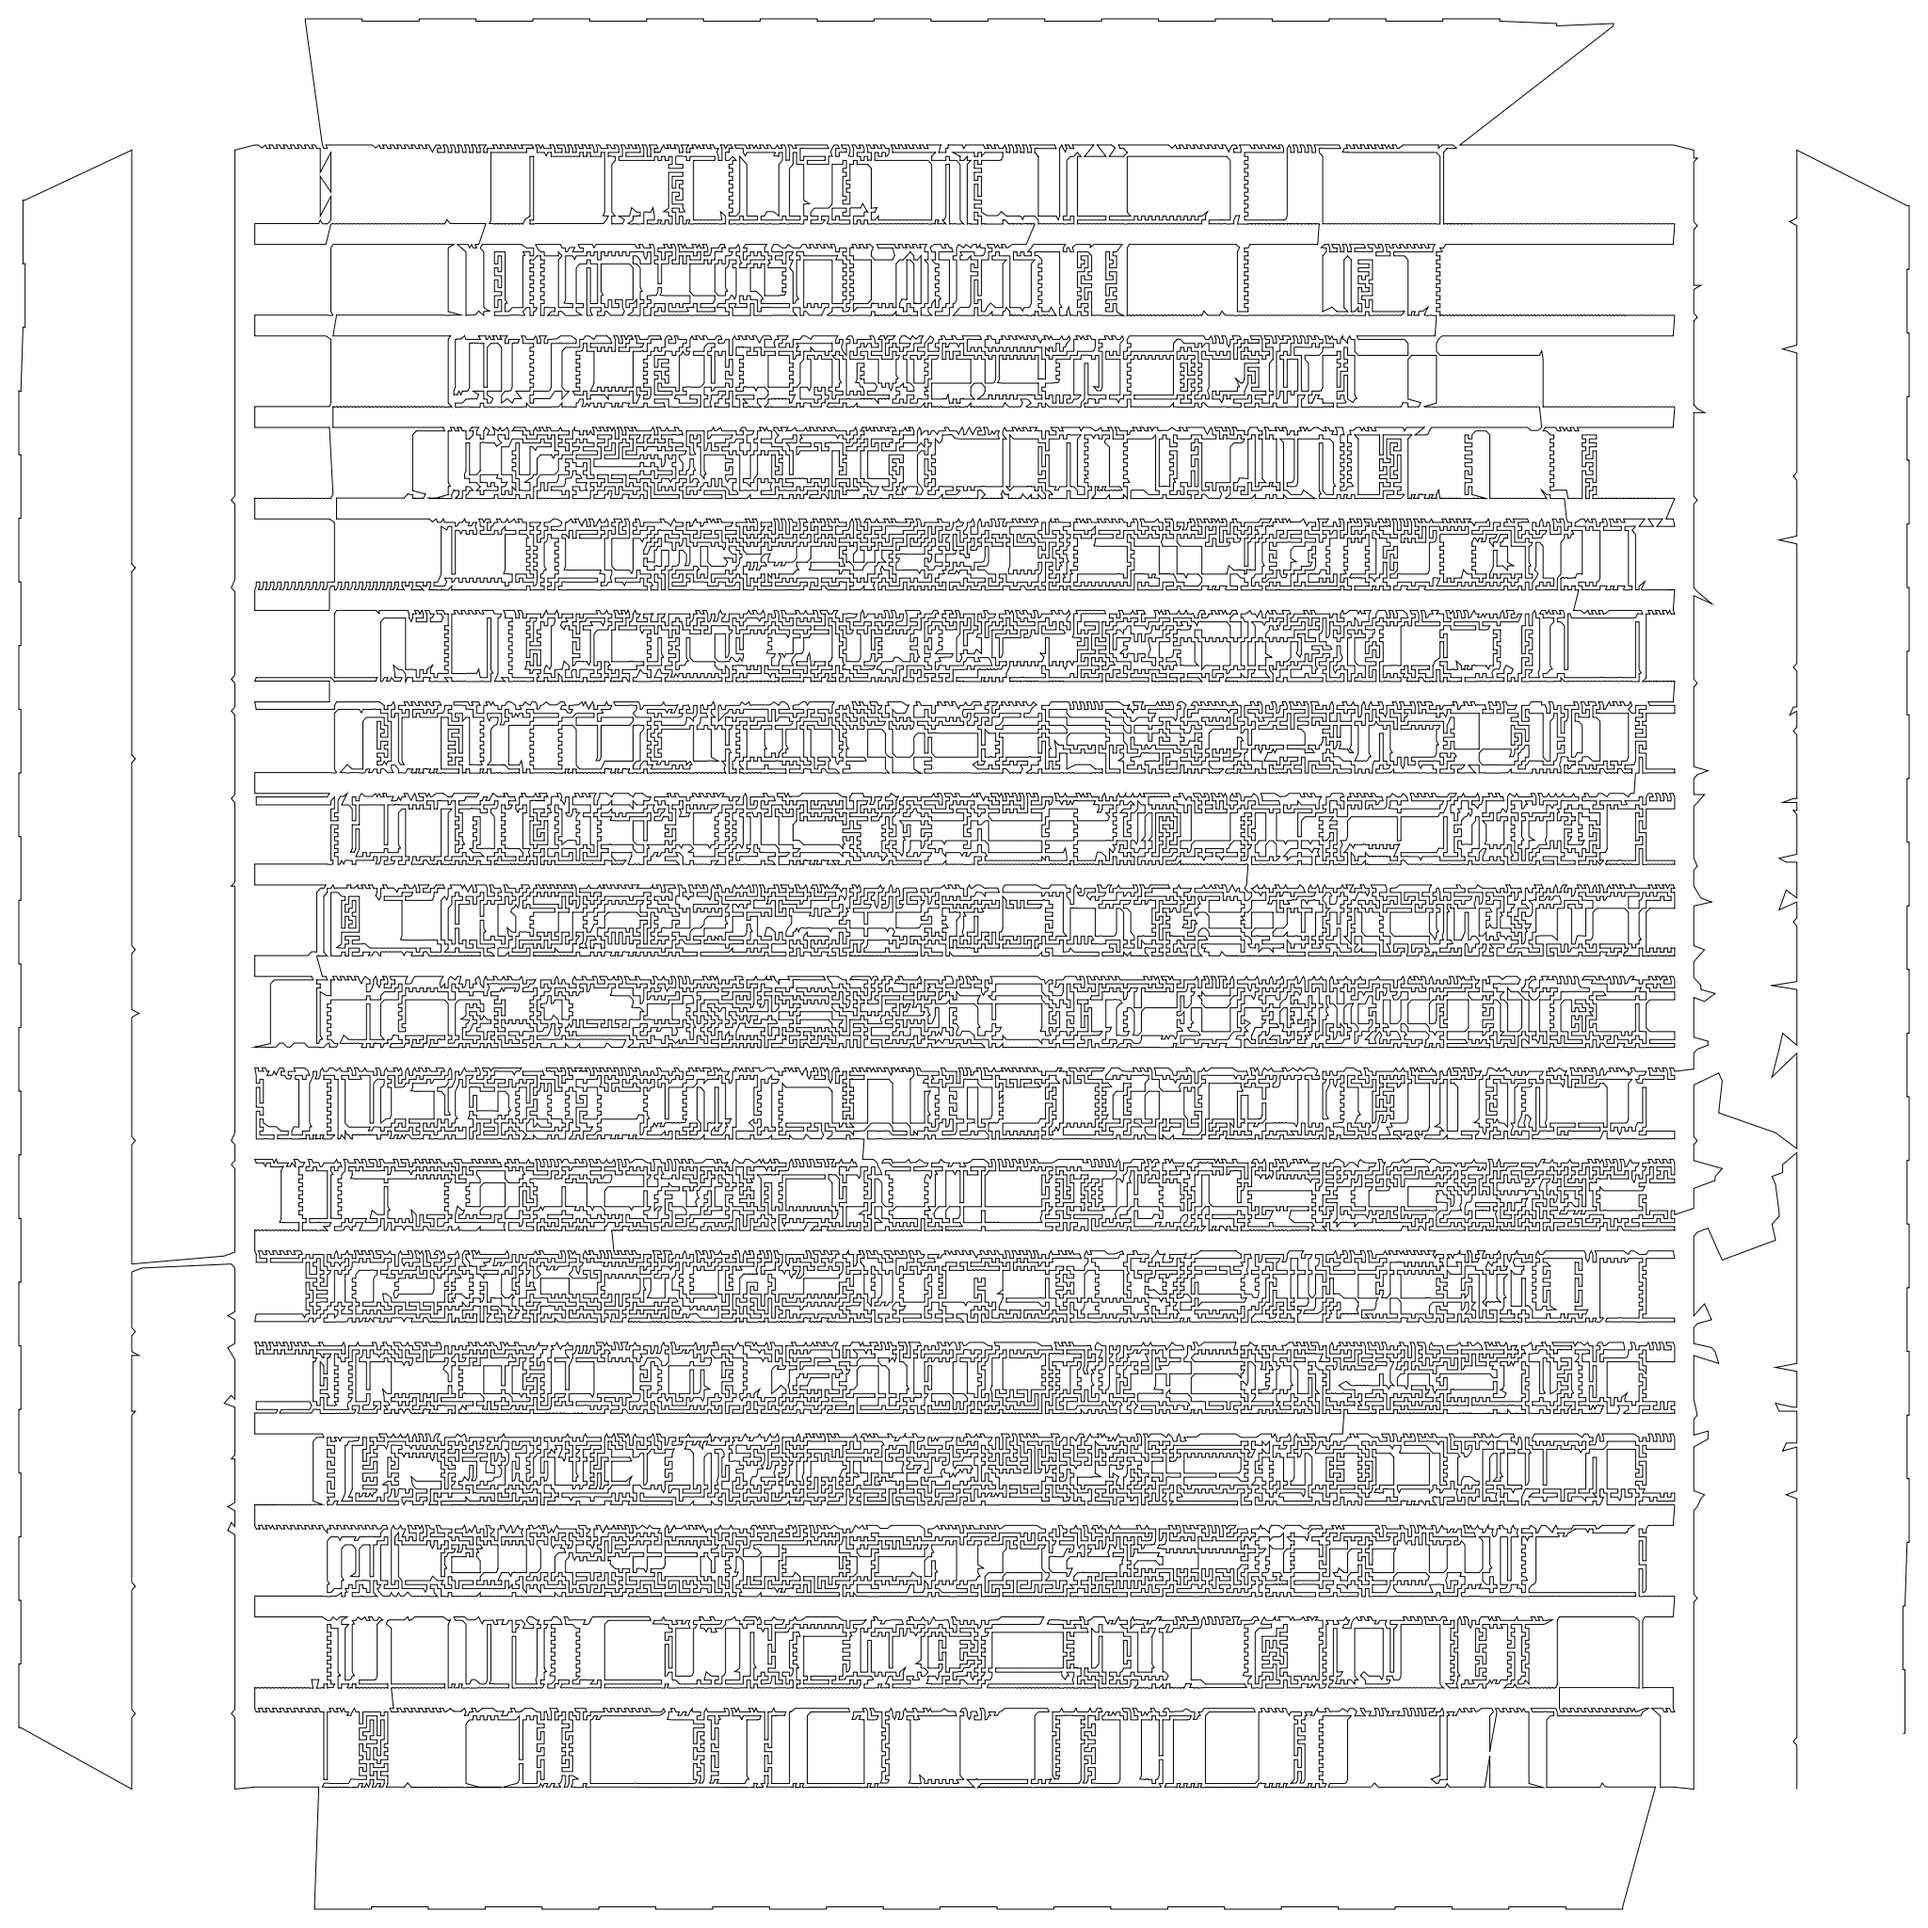
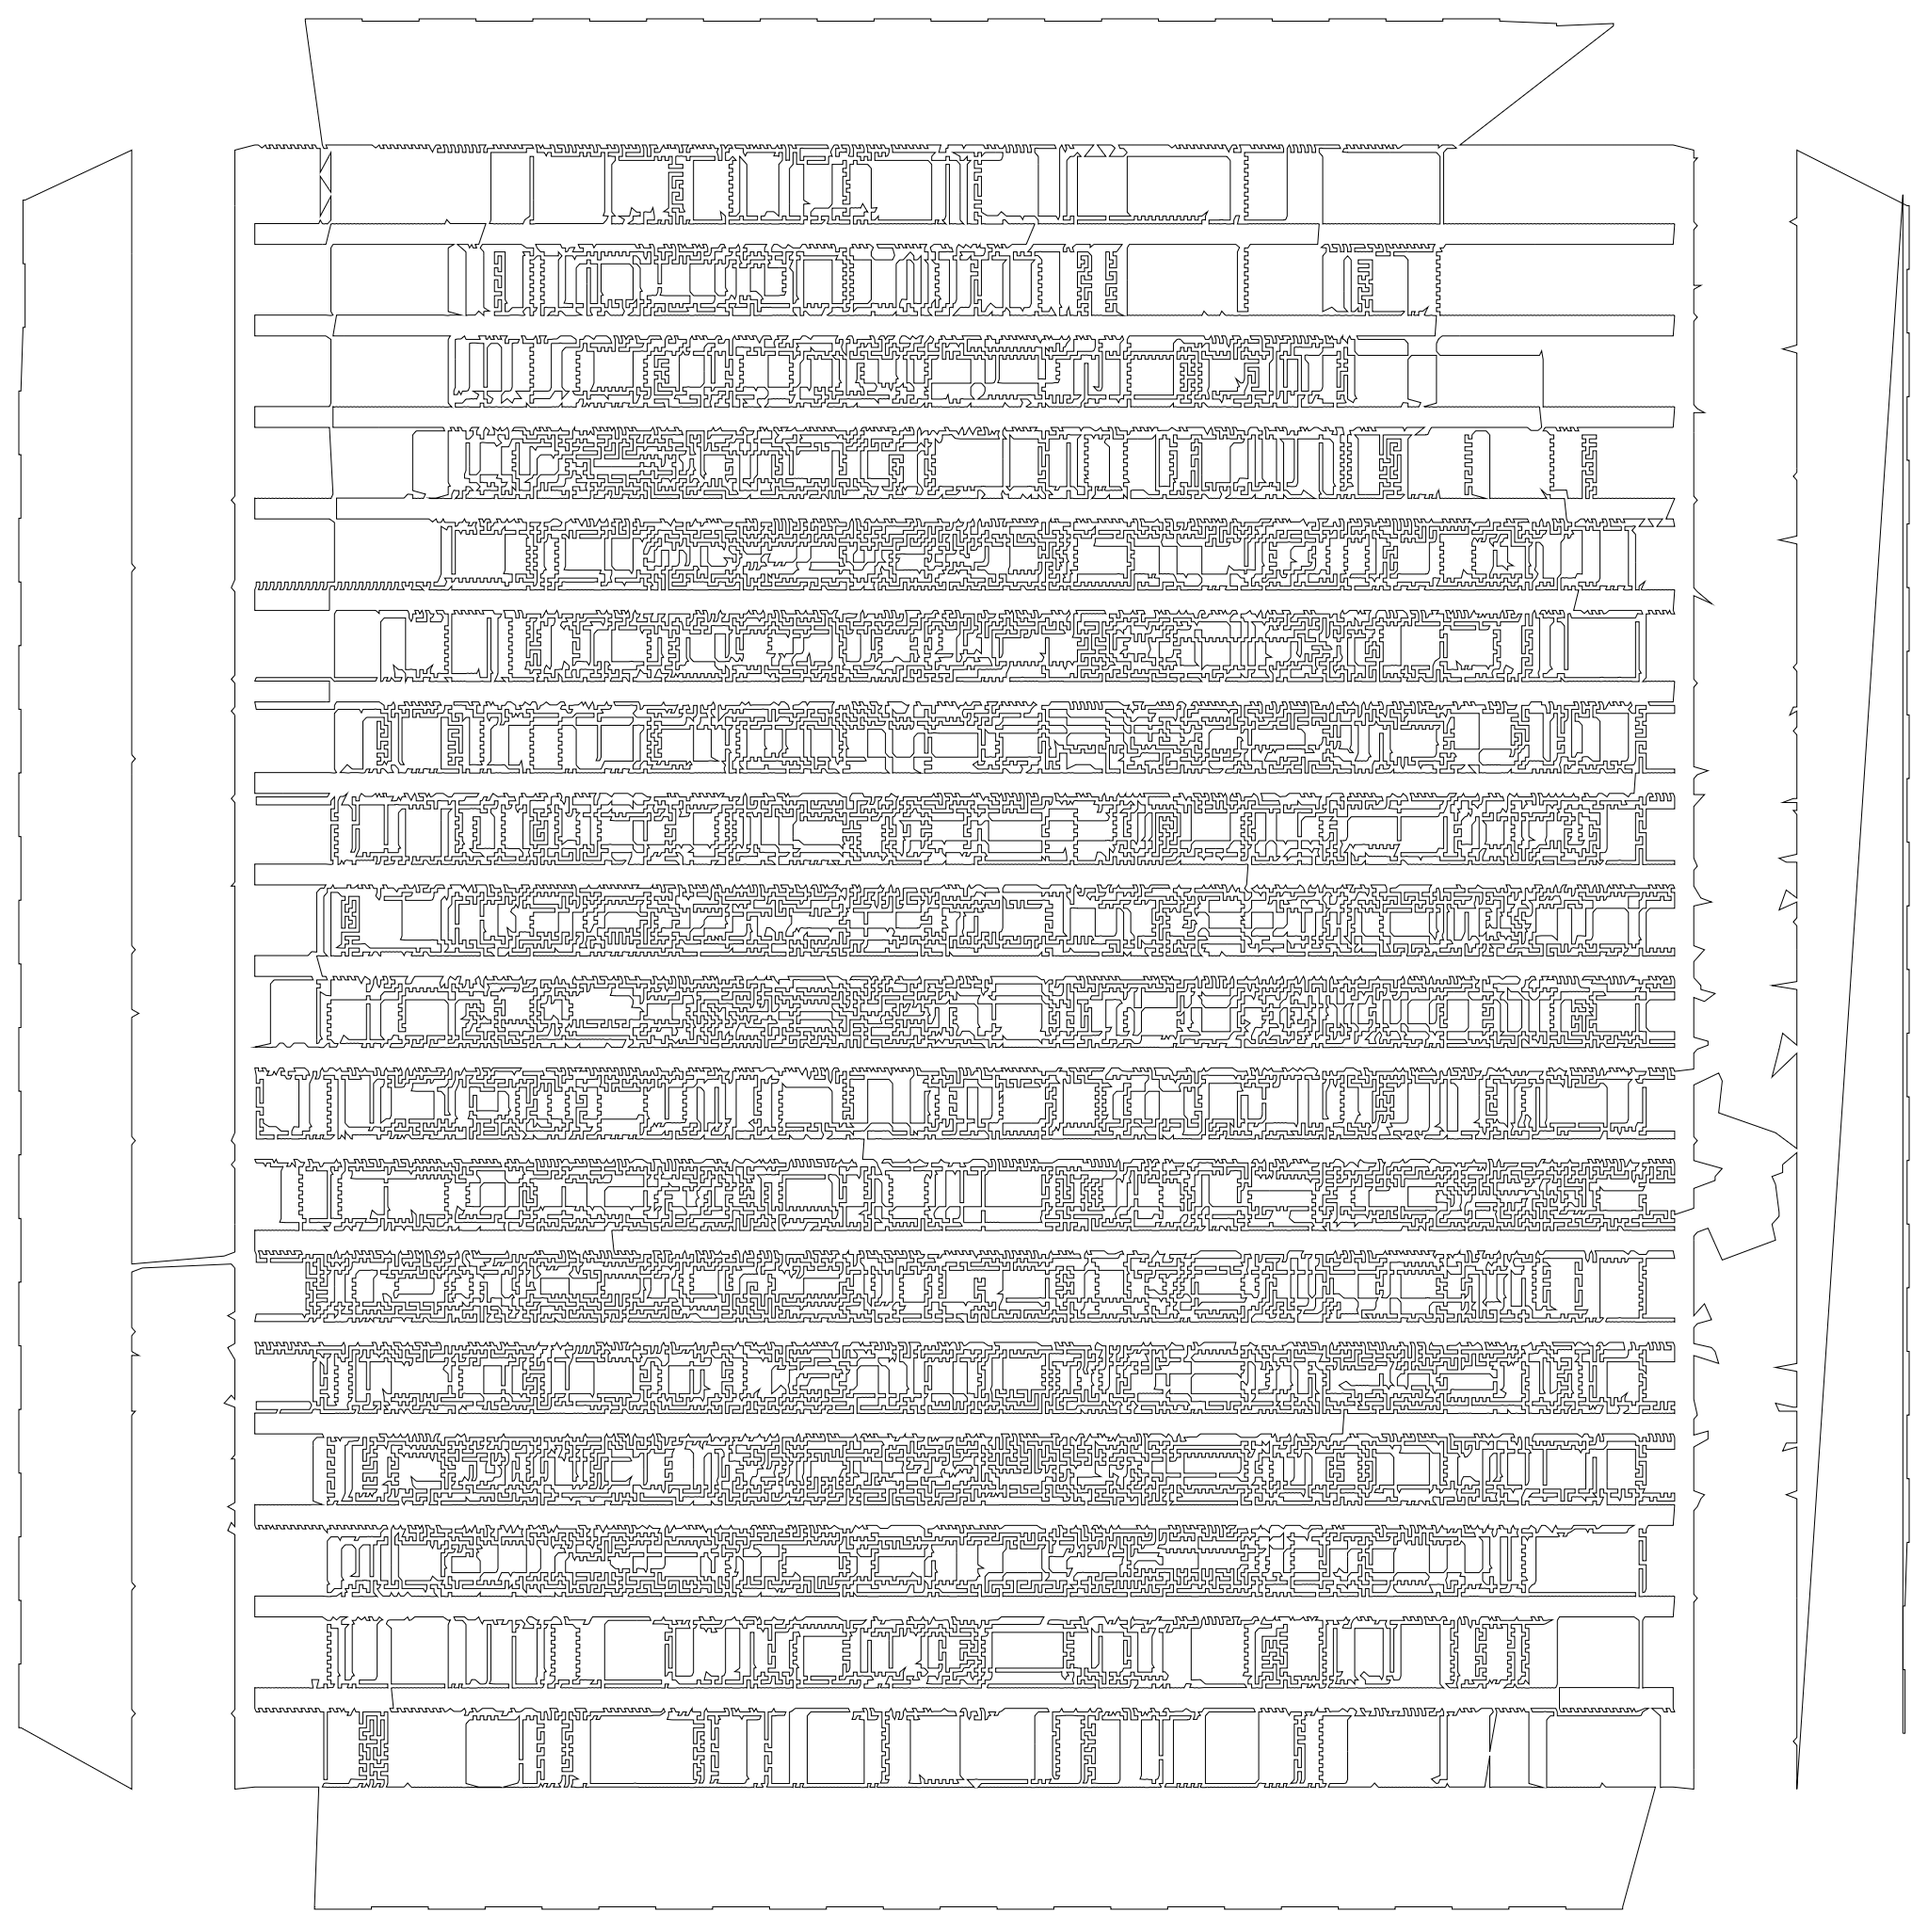
Update README.md

diff --git a/README.md b/README.md
@@ -6,16 +6,14 @@ h2CurveSort, a fast algorithm that is not designed for TSP problems,
 achieved a distance of $188465250$ (CEIL_2D), only a rough $\times 1.32$ of the Mathematically optimal distance $142382641$ (CEIL_2D).
 That might seem quite bad, but many dedicated approximation algorithms do no better, yet this algorithm is more efficient.
 
-The major flaw, is that TSP asks for a _cycle_, not a simple tour.
-Hilbert Sort will not minimize the distance between the first and the last node.
-This will add an overhead to the resultant distance, which is usually relatively high.
+The major flaw of using Hilbert Curve Sort, is that TSP asks for a _cycle_, not a simple tour.
+Hilbert Curve Sort will not minimize the distance between the first and the last node.
+This will add an overhead to the resultant distance, which is usually relatively large (this is apparent as shown in the next section).
 
 #### Tour Visualization
 
 _Optimal Tour_
 ![Optimal Tour](assets/pla85900_optimal.png)
 
-_Hilbert Curve Sort Tour_
+_Hilbert Curve Tour_
 ![Hilbert Curve Tour](assets/pla85900_hilbert_curve.png)
-
-> The tours' path do not return to the initial node.
